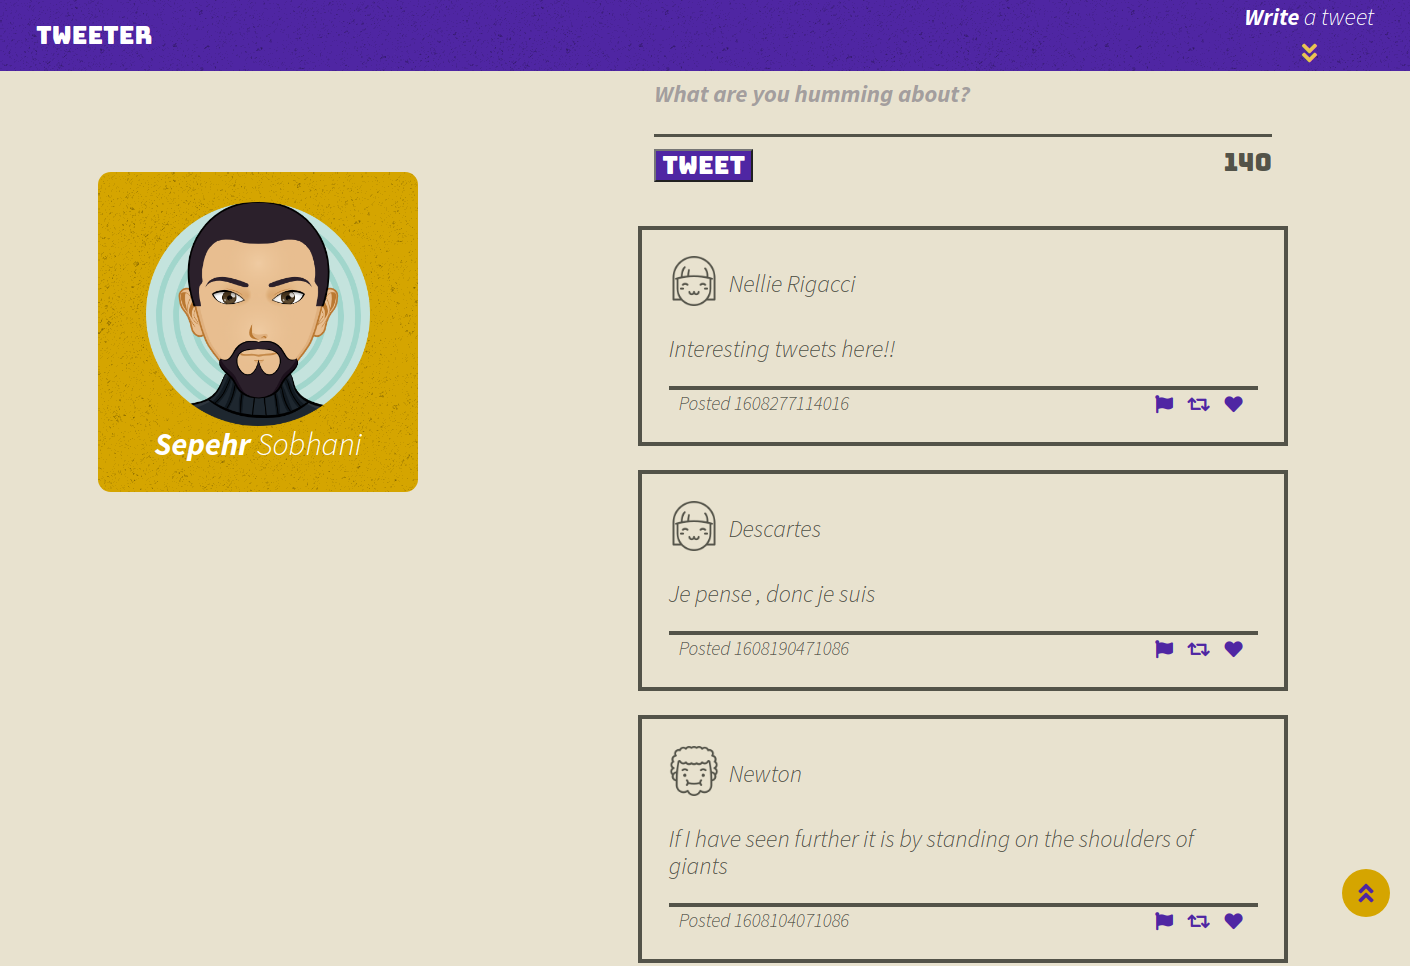
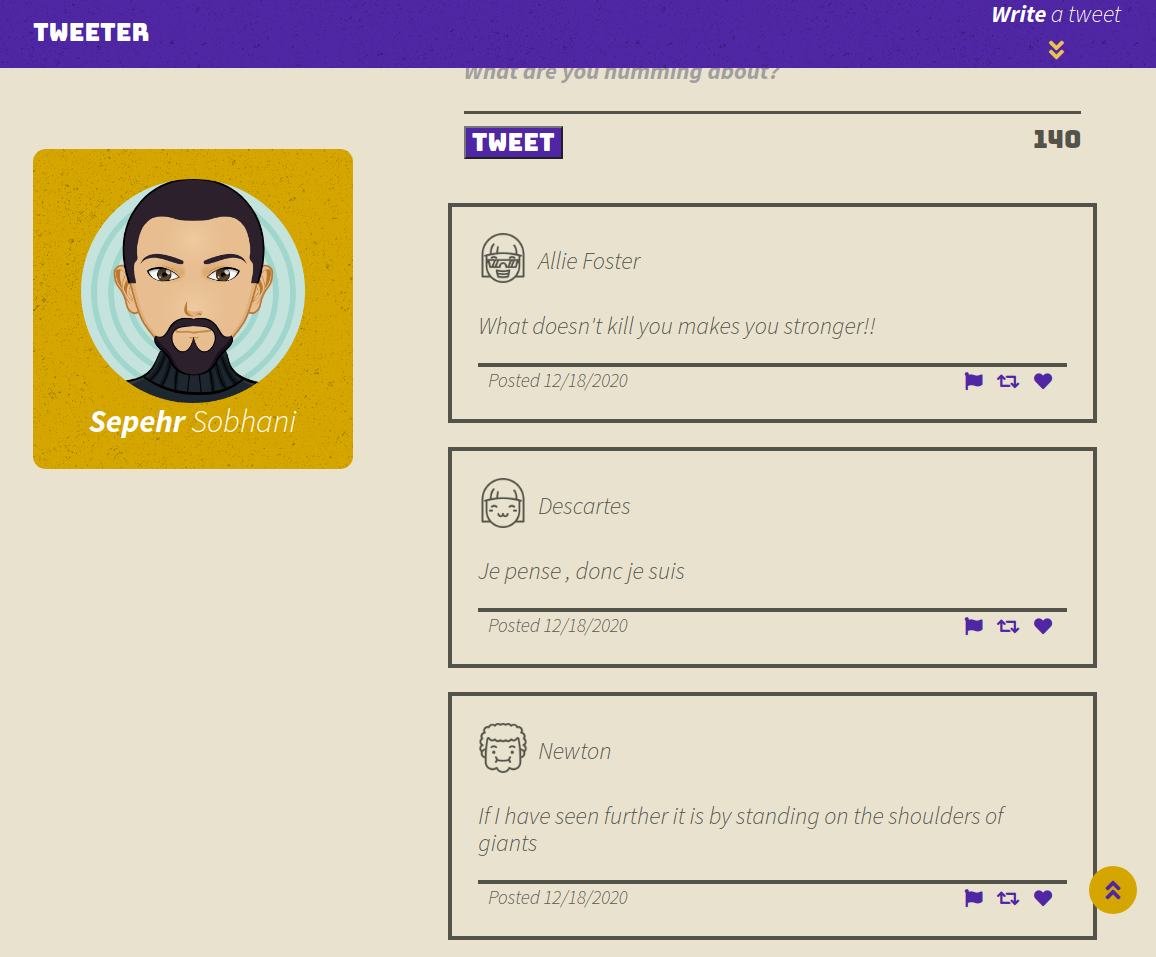
Polish

Changed region(s): [[0.0, 0.0, 1.0, 1.0], [0.0311, 0.1515, 0.3114, 0.5152]]

diff --git a/public/scripts/tweet-constructor.js b/public/scripts/tweet-constructor.js
@@ -1,5 +1,5 @@
-//Create new tweet elements
-const createTweetElement = function (tweetObj) {
+//Create newtweet elements
+const createTweetElement = function (tweetObj, time) {
   const $tweet = ` <article class="tweet">
       <div class="tweet-header">
         <div class="author">
@@ -21,7 +21,7 @@ const createTweetElement = function (tweetObj) {
       </div>
       <div class="tweet-footer">
         <div class="tweet-age">
-        <p>Posted ${escape(tweetObj.created_at)}</p>
+        <p>Posted ${time}</p>
         </div>
         <div class="tweet-actions">
         <i class="fas fa-flag fa-xs"></i>

diff --git a/public/scripts/client.js b/public/scripts/client.js
@@ -14,9 +14,10 @@ const loadTweets = function () {
 
 //Render each tweet to the page
 const renderTweets = function (tweets) {
+  const time = new Date().toLocaleDateString();
   $(".tweets-container").empty();
   for (const key of tweets) {
-    const tweetToRender = createTweetElement(key);
+    const tweetToRender = createTweetElement(key, time);
     $(".tweets-container").prepend(tweetToRender);
   }
 };

diff --git a/README.md b/README.md
@@ -1,24 +1,28 @@
 # Tweeter Project
 
-Tweeter is a simple, single-page Twitter clone.
+Tweeter is a SPA inspired by Twitter. This app is a full stack web application using:
 
-This repository is the starter code for the project: Students will fork and clone this repository, then build upon it to practice their HTML, CSS, JS, jQuery and AJAX front-end skills, and their Node, Express and MongoDB back-end skills.
+- Front-end: HTML, CSS, JS, jQuery and AJAX
+- Server: Node, Express
 
-## When the app is started you can:
+This app is a project assignment from Lighthouse Labs for The Web Developer Bootcamp. Only the server code and database "dummy" data were given as this was a project for client-side development. All CSS, JS, jQuery, and AJAX coding was performed by the developer.
 
-- Browse existing tweets listed with the most recent at the top.
-- If you would like to tweet, press the "Write a tweet" icon in the navigation menu.
-- The yellow button at the lower right hand corner of the screen will scroll to the top of the existing tweets list allowing you to enter a new tweet.
+## App Highlights
+
+- Users can view and create content.
+- Users can view the app on various devices as the app has a responsive design.
+- The app has various components to add to the user experience from sliding sections to bouncing animations.
+- The app notifies the user of their content length and warns the user if it is too long.
 
 ## Tablet layout
 
-![Tablet-Layout-1]()
-![Tablet-Layout-2]()
+![Tablet-Layout-1](https://github.com/Sepehr-Sobhani/tweeter/blob/master/docs/Tablet-layout.png)
+![Tablet-Layout-2](https://github.com/Sepehr-Sobhani/tweeter/blob/master/docs/Tablet-layout-2.png)
 
 ## Desktop Layout
 
-![Desktop-Layout-1]()
-![Desktop-Layout-2]()
+![Desktop-Layout-1](https://github.com/Sepehr-Sobhani/tweeter/blob/master/docs/Desktop-layout.png)
+![Desktop-Layout-2](https://github.com/Sepehr-Sobhani/tweeter/blob/master/docs/Desktop-layout-2.png)
 
 ## Dependencies
 
